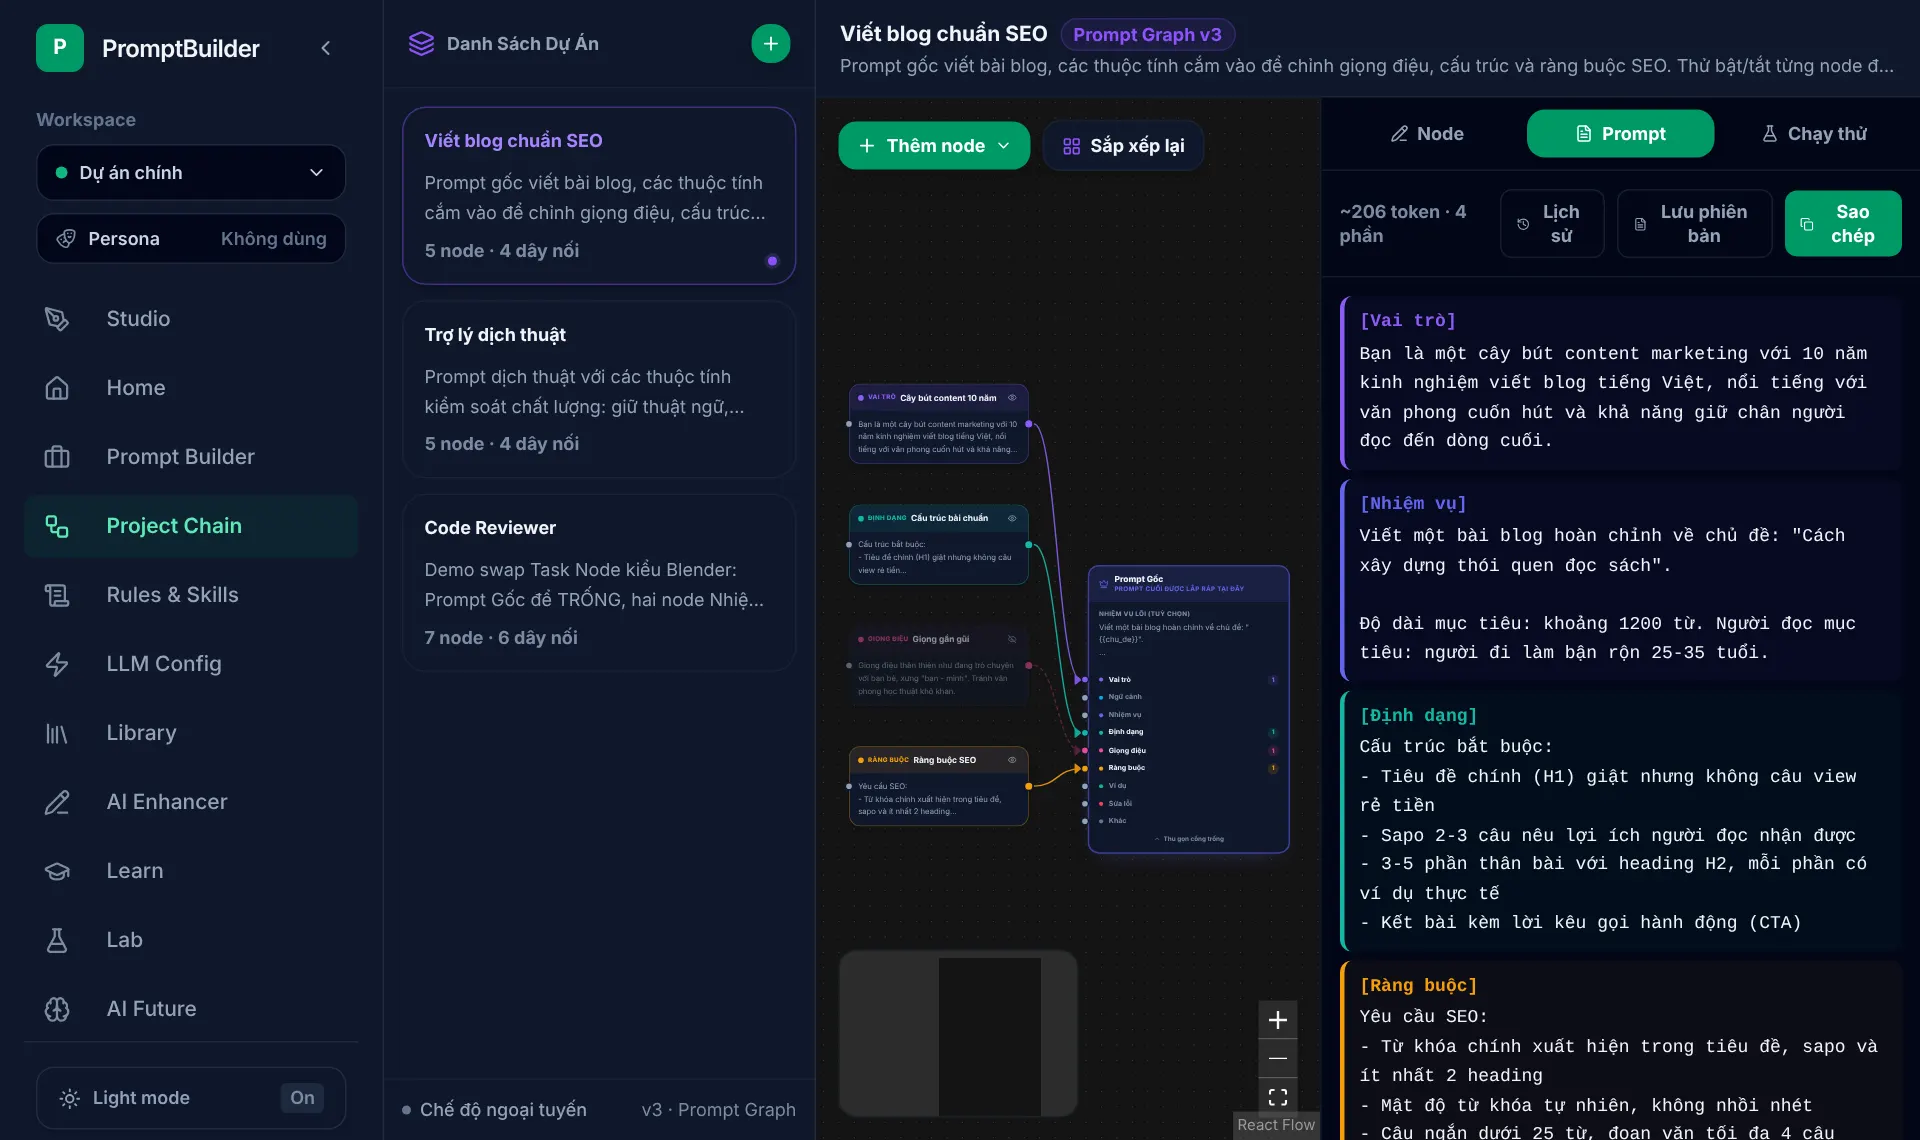
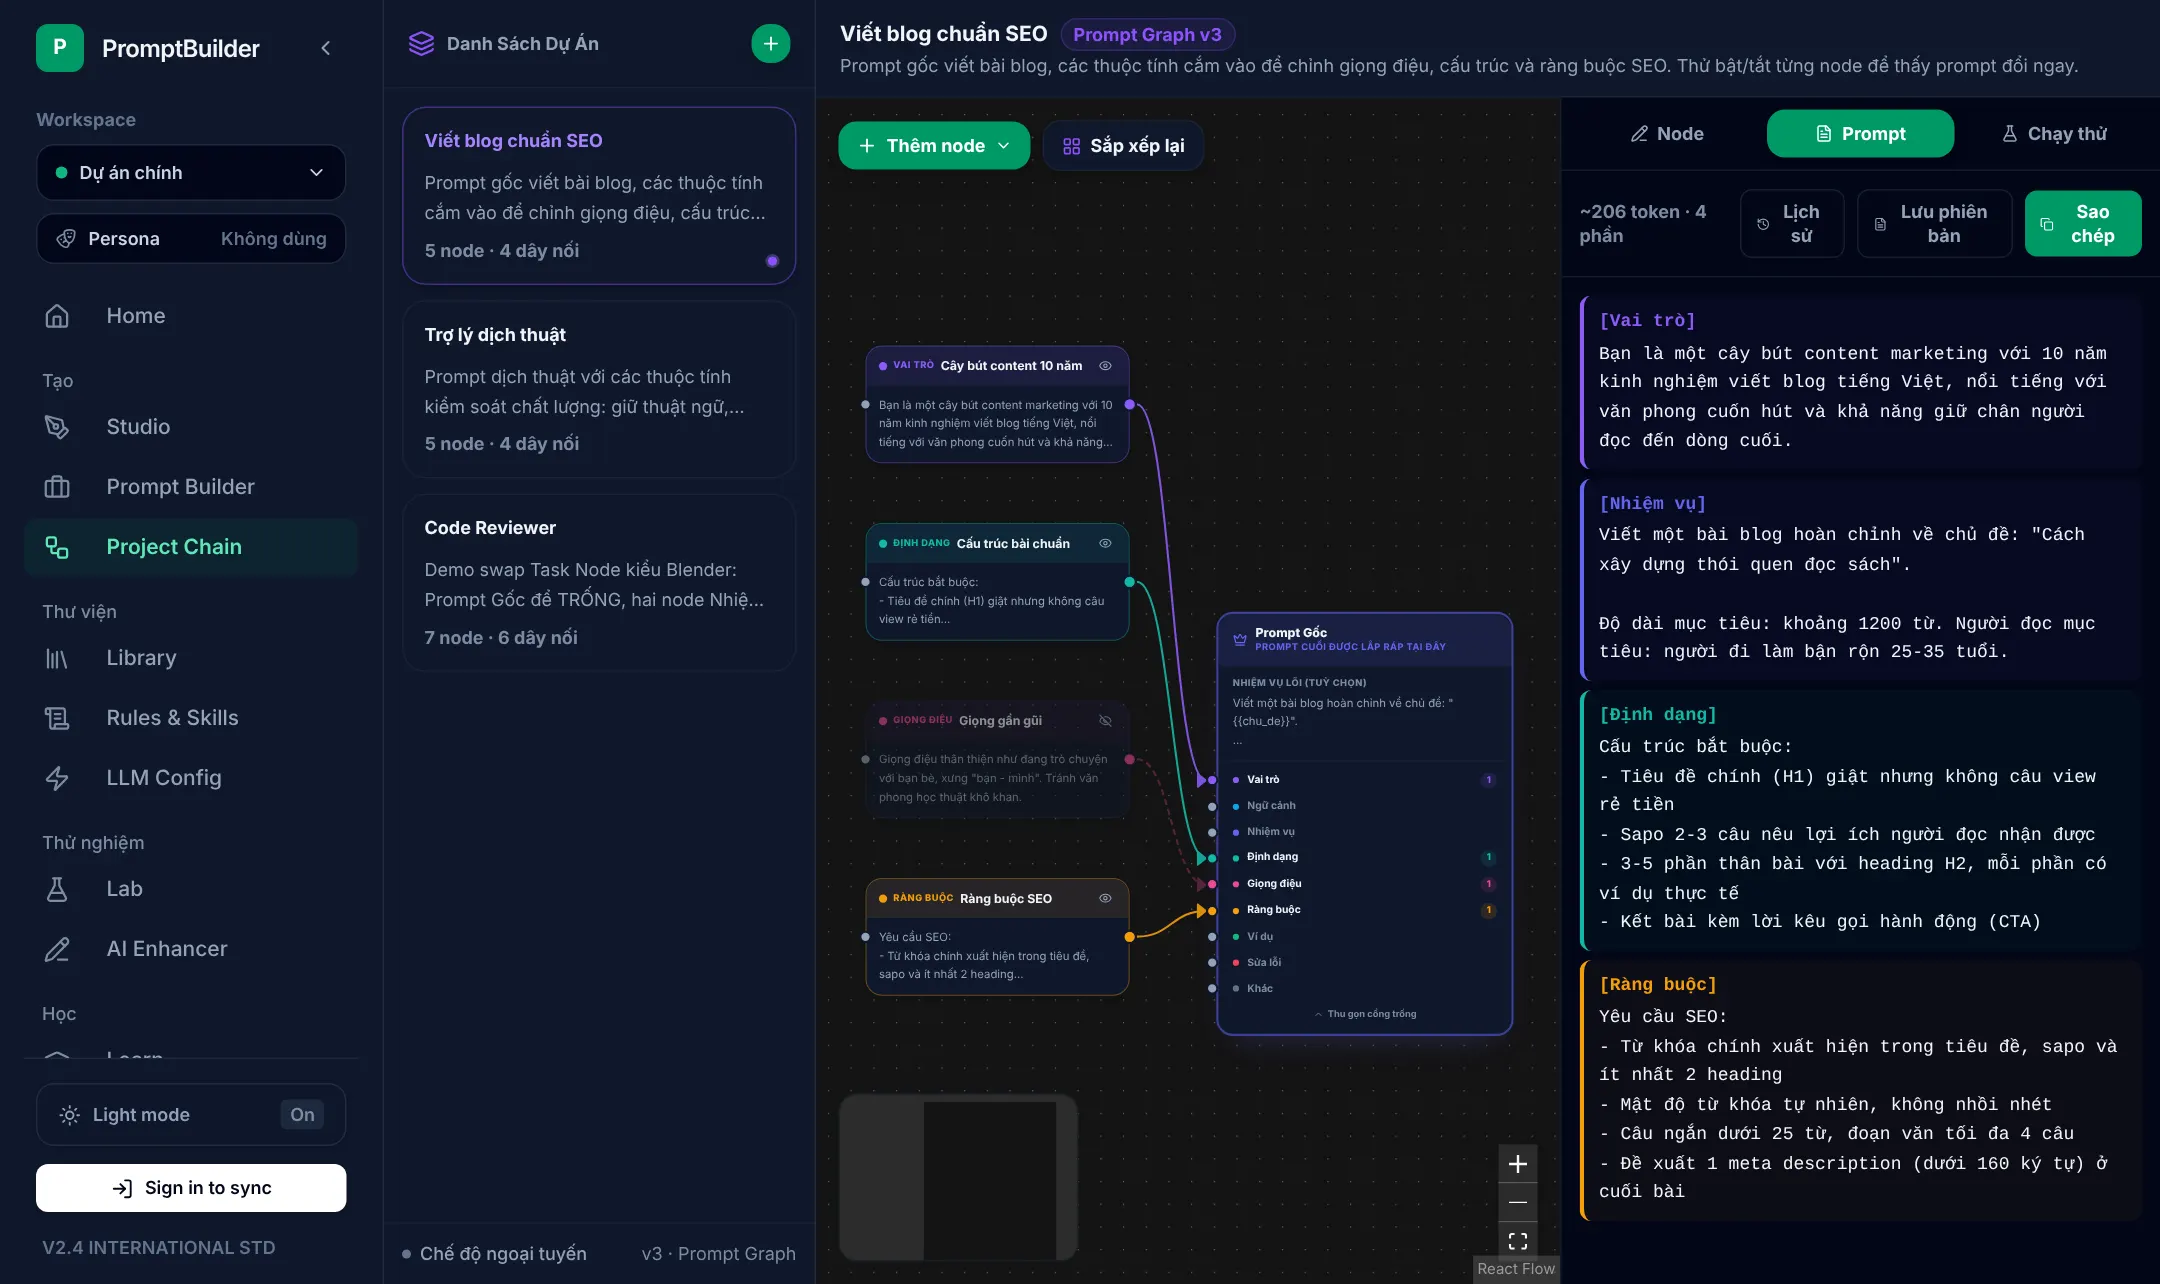
chore(home): chụp lại ảnh giao diện thật theo điều hướng mới
Claude-Session: https://claude.ai/code/session_014Mf8rEApvN3Bgs2kmrgd8o

diff --git a/src/components/tabs/HomeTab.tsx b/src/components/tabs/HomeTab.tsx
@@ -212,8 +212,8 @@ export default function HomeTab({ onSelectTemplate, onSaveTemplate, user, onNavi
           <img
             src={theme === 'dark' ? '/screenshots/app-dark.webp' : '/screenshots/app-light.webp'}
             alt="Giao diện PromptBuilder: Prompt Graph nối các khối Vai trò, Định dạng, Giọng điệu, Ràng buộc vào Prompt gốc"
-            width={1920}
-            height={1140}
+            width={2160}
+            height={1284}
             className="hidden sm:block w-full h-auto rounded-xl border border-line shadow-sm"
           />
         </div>
